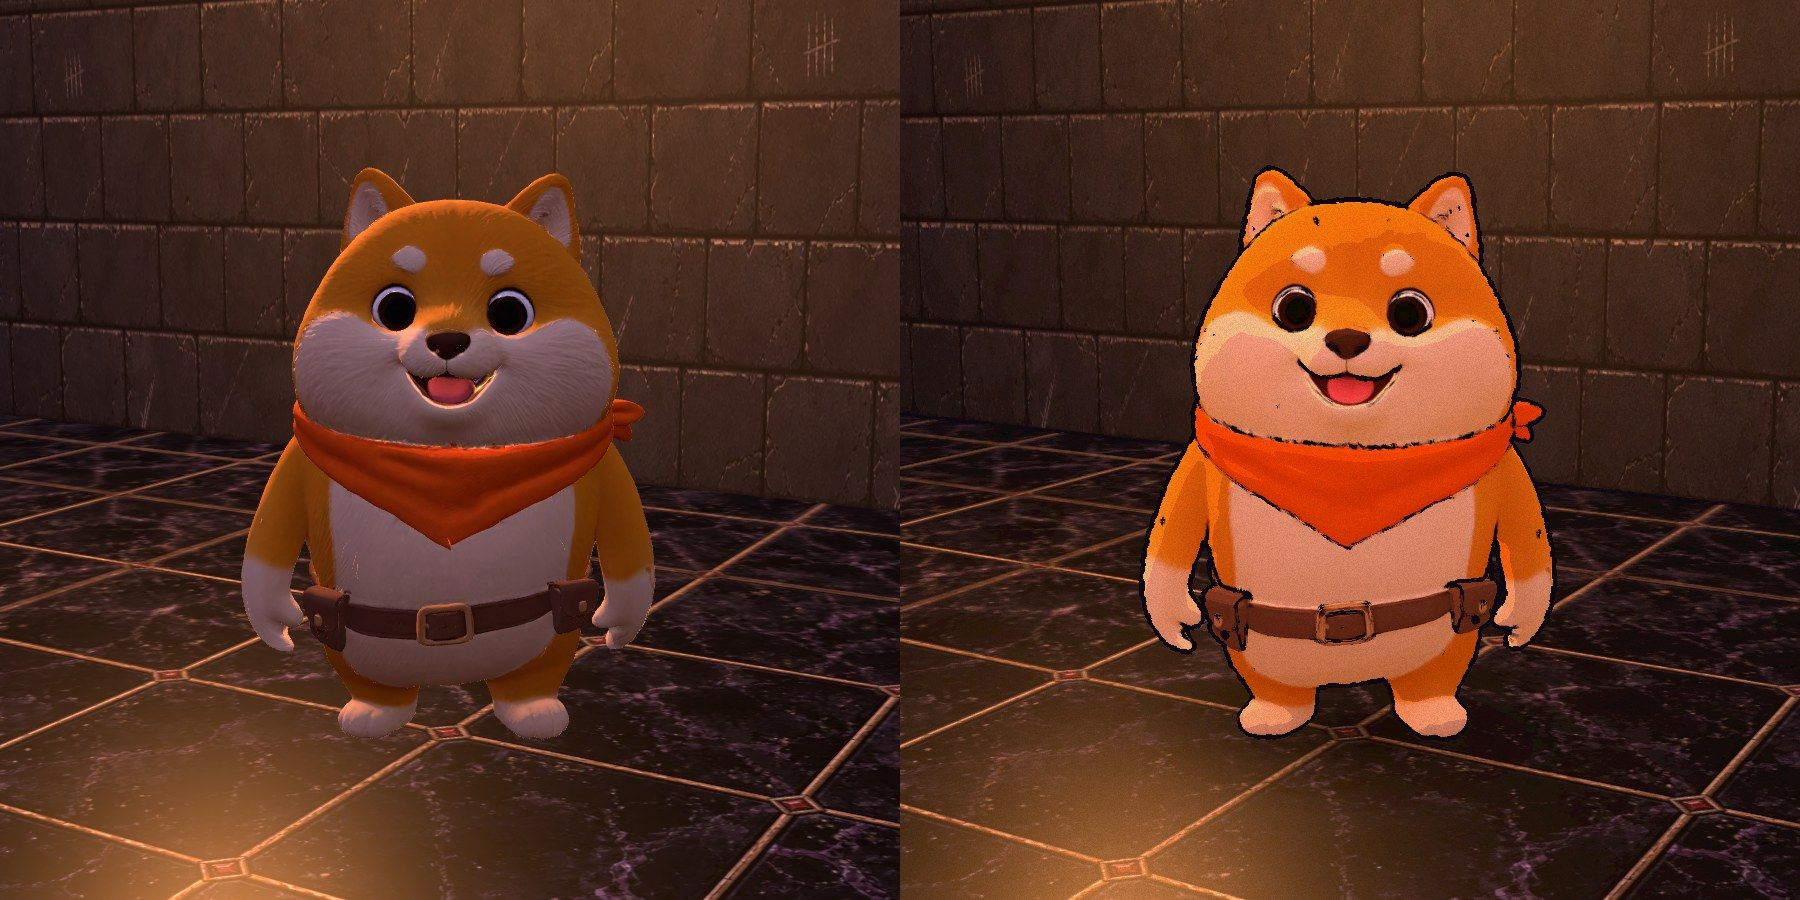
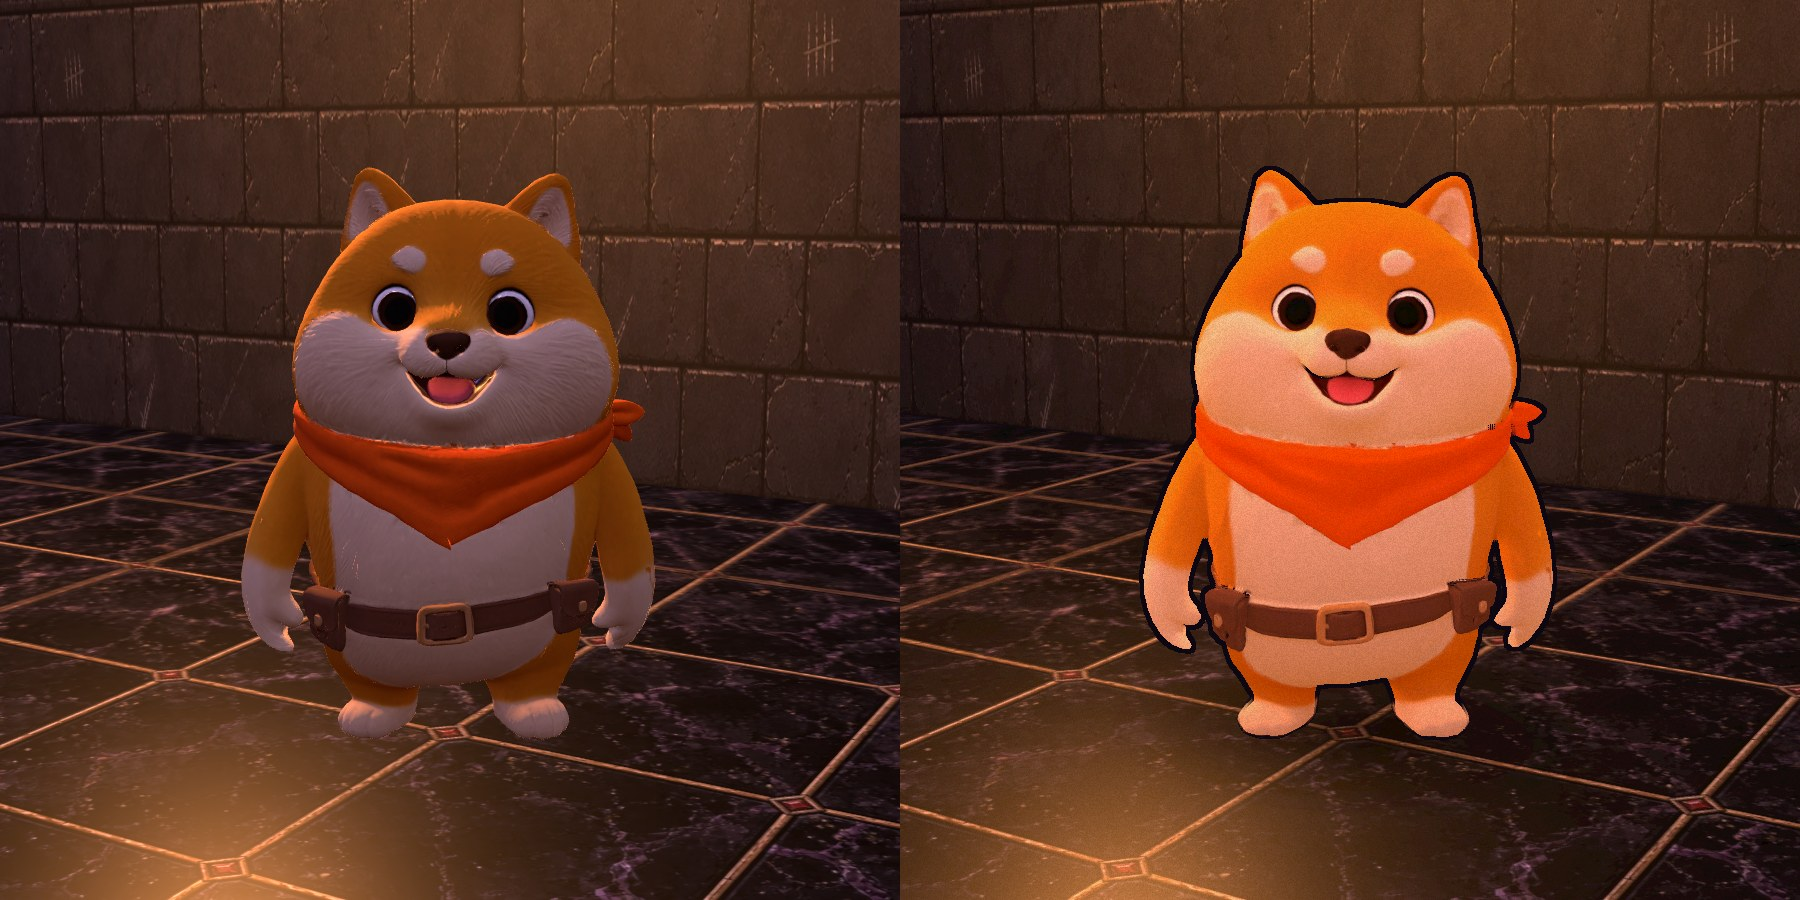
Ink test v2: no screen-space wobble (lines stick when moving), no speckles, smoother cel bands
Claude-Session: https://claude.ai/code/session_01XNz4XfrEGQn3GrVDSAW537

diff --git a/art/style/ink-test/index.html b/art/style/ink-test/index.html
@@ -40,9 +40,16 @@ const origMats = new Map();
 const toonMats = new Map();
 
 // 셀 셰이딩용 3단 명암
-const steps = new Uint8Array([95, 95, 110, 255, 185, 180, 185, 255, 255, 255, 255, 255]);
-const grad = new THREE.DataTexture(steps, 3, 1, THREE.RGBAFormat);
-grad.minFilter = grad.magFilter = THREE.NearestFilter;
+// 셀 명암 띠: 어두움 → 중간 → 밝음 3단, 경계만 살짝 부드럽게 (딱 끊으면 털 무늬마다 얼룩이 생김)
+const RAMP = 64, steps = new Uint8Array(RAMP * 4);
+for (let i = 0; i < RAMP; i++) {
+  const x = i / (RAMP - 1);
+  const band = (a, e, w) => 1 / (1 + Math.exp(-(x - e) / w));
+  const v = 0.42 + 0.3 * band(0, 0.32, 0.035) + 0.28 * band(0, 0.68, 0.035);
+  steps.set([v * 255, v * 248, v * 250, 255], i * 4);
+}
+const grad = new THREE.DataTexture(steps, RAMP, 1, THREE.RGBAFormat);
+grad.minFilter = grad.magFilter = THREE.LinearFilter;
 grad.needsUpdate = true;
 
 // 바닥 접촉 그림자 (부드러운 원)
@@ -71,20 +78,24 @@ const post = new THREE.ShaderMaterial({
   fragmentShader: `
     uniform sampler2D tColor, tNormal, tDepth, tPaper; uniform vec2 res; uniform float near, far; varying vec2 vUv;
     float lin(float d){ float z = d * 2.0 - 1.0; return (2.0 * near * far) / (far + near - z * (far - near)); }
-    float hash(vec2 p){ return fract(sin(dot(p, vec2(12.9898,78.233))) * 43758.5453); }
-    void main(){
-      // 선이 손으로 그린 듯 살짝 흔들리게
-      vec2 wob = (vec2(hash(floor(vUv*160.0)), hash(floor(vUv*160.0)+7.0)) - 0.5) * 1.2 / res;
-      vec2 uv = vUv + wob; vec2 px = 2.4 / res; // 선 굵기 (px)
+        void main(){
+      // 화면에 고정된 흔들림은 넣지 않는다 (움직이면 선이 물체와 따로 미끄러져 보임)
+      vec2 uv = vUv; vec2 px = 2.0 / res; // 선 굵기 (px)
       float d0 = lin(texture2D(tDepth, uv).r);
       vec3 n0 = texture2D(tNormal, uv).rgb;
-      float dEdge = 0.0, nEdge = 0.0;
-      for (int i = 0; i < 4; i++) {
-        vec2 o = i == 0 ? vec2(px.x,0.) : i == 1 ? vec2(-px.x,0.) : i == 2 ? vec2(0.,px.y) : vec2(0.,-px.y);
-        dEdge += abs(lin(texture2D(tDepth, uv + o).r) - d0);
-        nEdge += distance(texture2D(tNormal, uv + o).rgb, n0);
+      float dEdge = 0.0, nEdge = 0.0, nHits = 0.0;
+      for (int i = 0; i < 8; i++) {
+        vec2 o = vec2(i == 0 || i == 4 || i == 5 ? 1. : i == 1 || i == 6 || i == 7 ? -1. : 0.,
+                      i == 2 || i == 4 || i == 6 ? 1. : i == 3 || i == 5 || i == 7 ? -1. : 0.) * px;
+        dEdge = max(dEdge, abs(lin(texture2D(tDepth, uv + o).r) - d0));
+        float nd = distance(texture2D(tNormal, uv + o).rgb, n0);
+        nEdge = max(nEdge, nd);
+        nHits += step(0.5, nd);
       }
-      float edge = max(smoothstep(0.05 * d0, 0.1 * d0, dEdge), smoothstep(0.45, 0.85, nEdge));
+      float silhouette = smoothstep(0.03 * d0, 0.06 * d0, dEdge);       // 윤곽 (거리 차이)
+      float crease = smoothstep(0.55, 0.9, nEdge) * step(2.5, nHits);     // 접힌 곳 (이웃 3곳 이상일 때만 → 외톨이 점 없음)
+      float edge = max(silhouette, crease);
+      edge *= 1.0 - smoothstep(25.0, 60.0, d0);                            // 먼 곳은 선을 흐리게 (안개 속 지저분함 방지)
       vec3 col = texture2D(tColor, vUv).rgb;
       vec3 p = texture2D(tPaper, vUv * res / 256.0).rgb;
       col *= mix(vec3(1.0), p * p, 0.9); // 종이 결
@@ -134,6 +145,7 @@ new GLTFLoader().load('../../../assets/models/shiba.glb', (g) => {
   window.ready = true;
 });
 
+window.pose = (rot, camX) => { if (model) model.rotation.y = rot; cam.position.x = camX; cam.lookAt(0, 0.8, 0); };
 window.render = (mode) => {
   if (mode === 'edge') post.defines.EDGE_ONLY = 1; else delete post.defines.EDGE_ONLY;
   post.needsUpdate = true;

diff --git a/HANDOFF.md b/HANDOFF.md
@@ -161,6 +161,7 @@ URL=https://dhshlove01-lang.github.io/Ink-Escape/ NODE_PATH=$(npm root -g) node 
 ### 2026-11-27 · 잉크 스타일 렌더링 시험 (캐릭터 하나 전후 비교, 게임 코드는 아직 안 바꿈)
 - **무엇을**: "3D 툴을 써도 허접해 보이는 이유" 답변(그림체 섞임·그림자/톤매핑 없음·빈 맵·애니메이션 부족) 뒤 사용자 요청으로 시바 한 마리 전후 비교. 잉크 쪽 = 셀 셰이딩(`MeshToonMaterial` 3단, 법선 지도 뺌) + **잉크 외곽선 후처리**(깊이·법선 차이 → 2.4px 검은 선, 손 떨림처럼 살짝 흔들림) + 종이 결 + ACES 톤매핑.
 - **어디**: 시험 페이지 `art/style/ink-test/index.html`(저장소 루트에서 서버 띄우고 열면 됨, `window.render('before'|'after'|'edge')`), 비교 그림 `art/style/ink-test/compare.jpg`.
+- **2차 (사용자: 색 얼룩·점 없애기, 움직일 때 선이 따로 놀면 안 됨)**: 화면 고정 흔들림 제거(움직일 때 선이 미끄러지던 원인), 점 = 법선 주름선은 8방향 중 3곳 이상일 때만 + 윤곽은 깊이 차이, 먼 곳 선 흐리게, 색 얼룩 = 3단 띠 경계를 부드럽게(64칸 램프). 회전·카메라 이동 4장(`move.jpg`)에서 선이 몸에 붙어 따라감 확인.
 - **다음(사용자 결정 대기)**: 좋으면 게임에 넣기 — `render/InkPost.js`(후처리, 그래픽 설정 낮음에선 끔) + 모델 재질을 툰으로 바꾸는 곳(`ModelLibrary.normalize`) + 접촉 그림자. 알려진 점: 털 텍스처 위 셀 명암이 약간 얼룩, 몸 안쪽에 작은 점 선(법선 잡음) — 문턱값 조절로 줄임.
 
 ### 2026-11-27 · 시작 화면 배경을 궁전 맵 스크린샷으로
